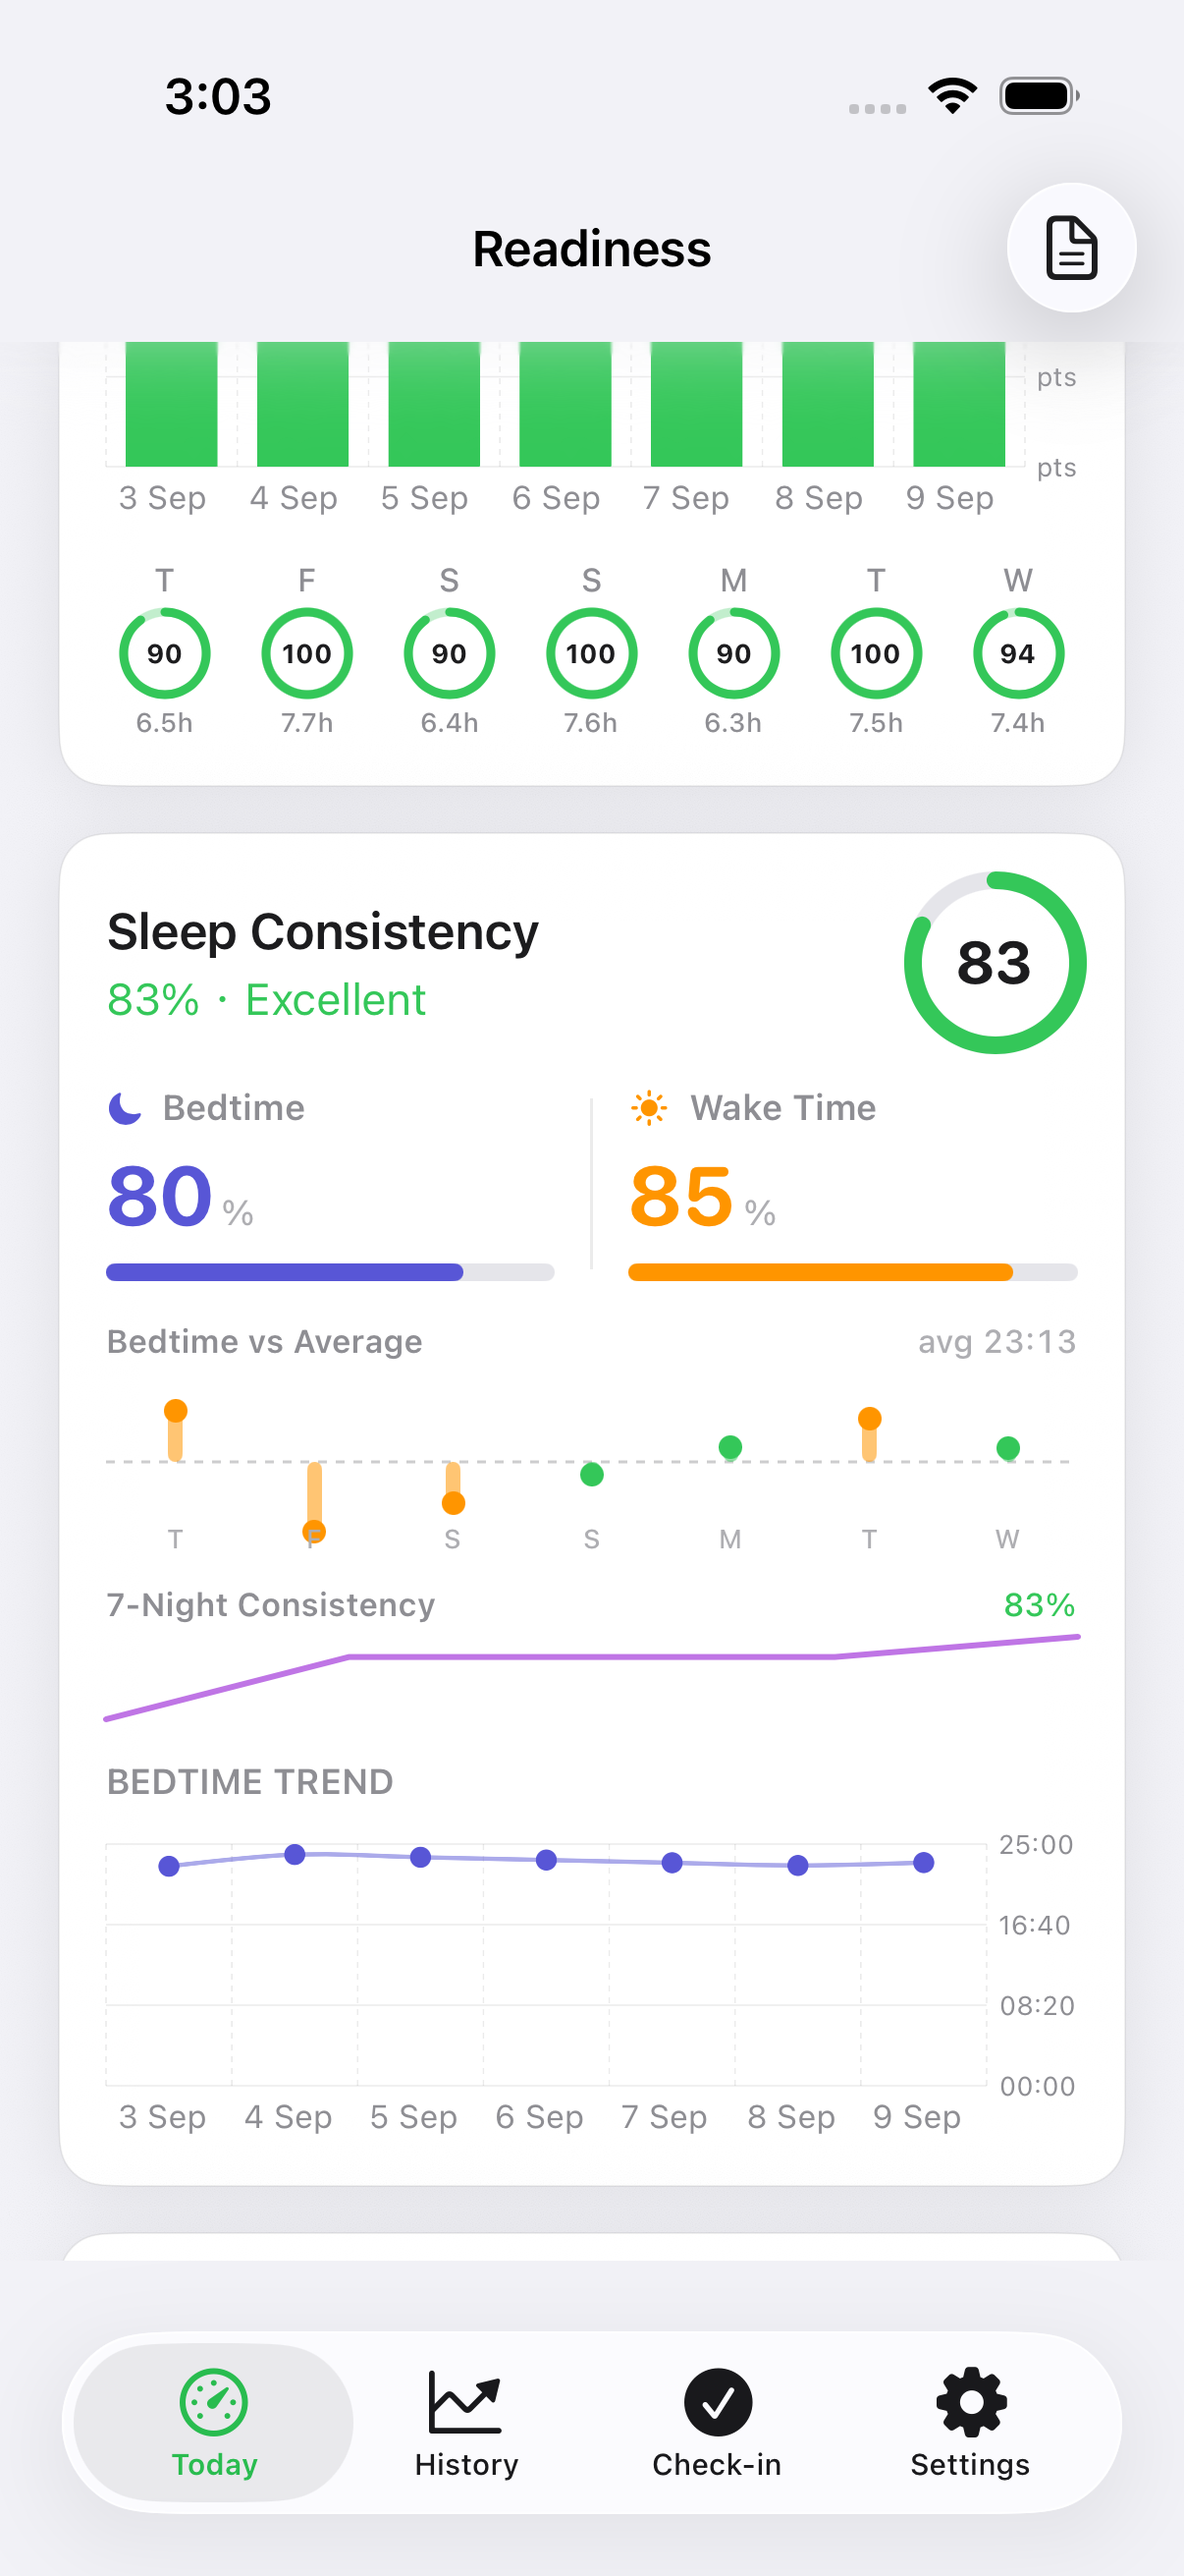
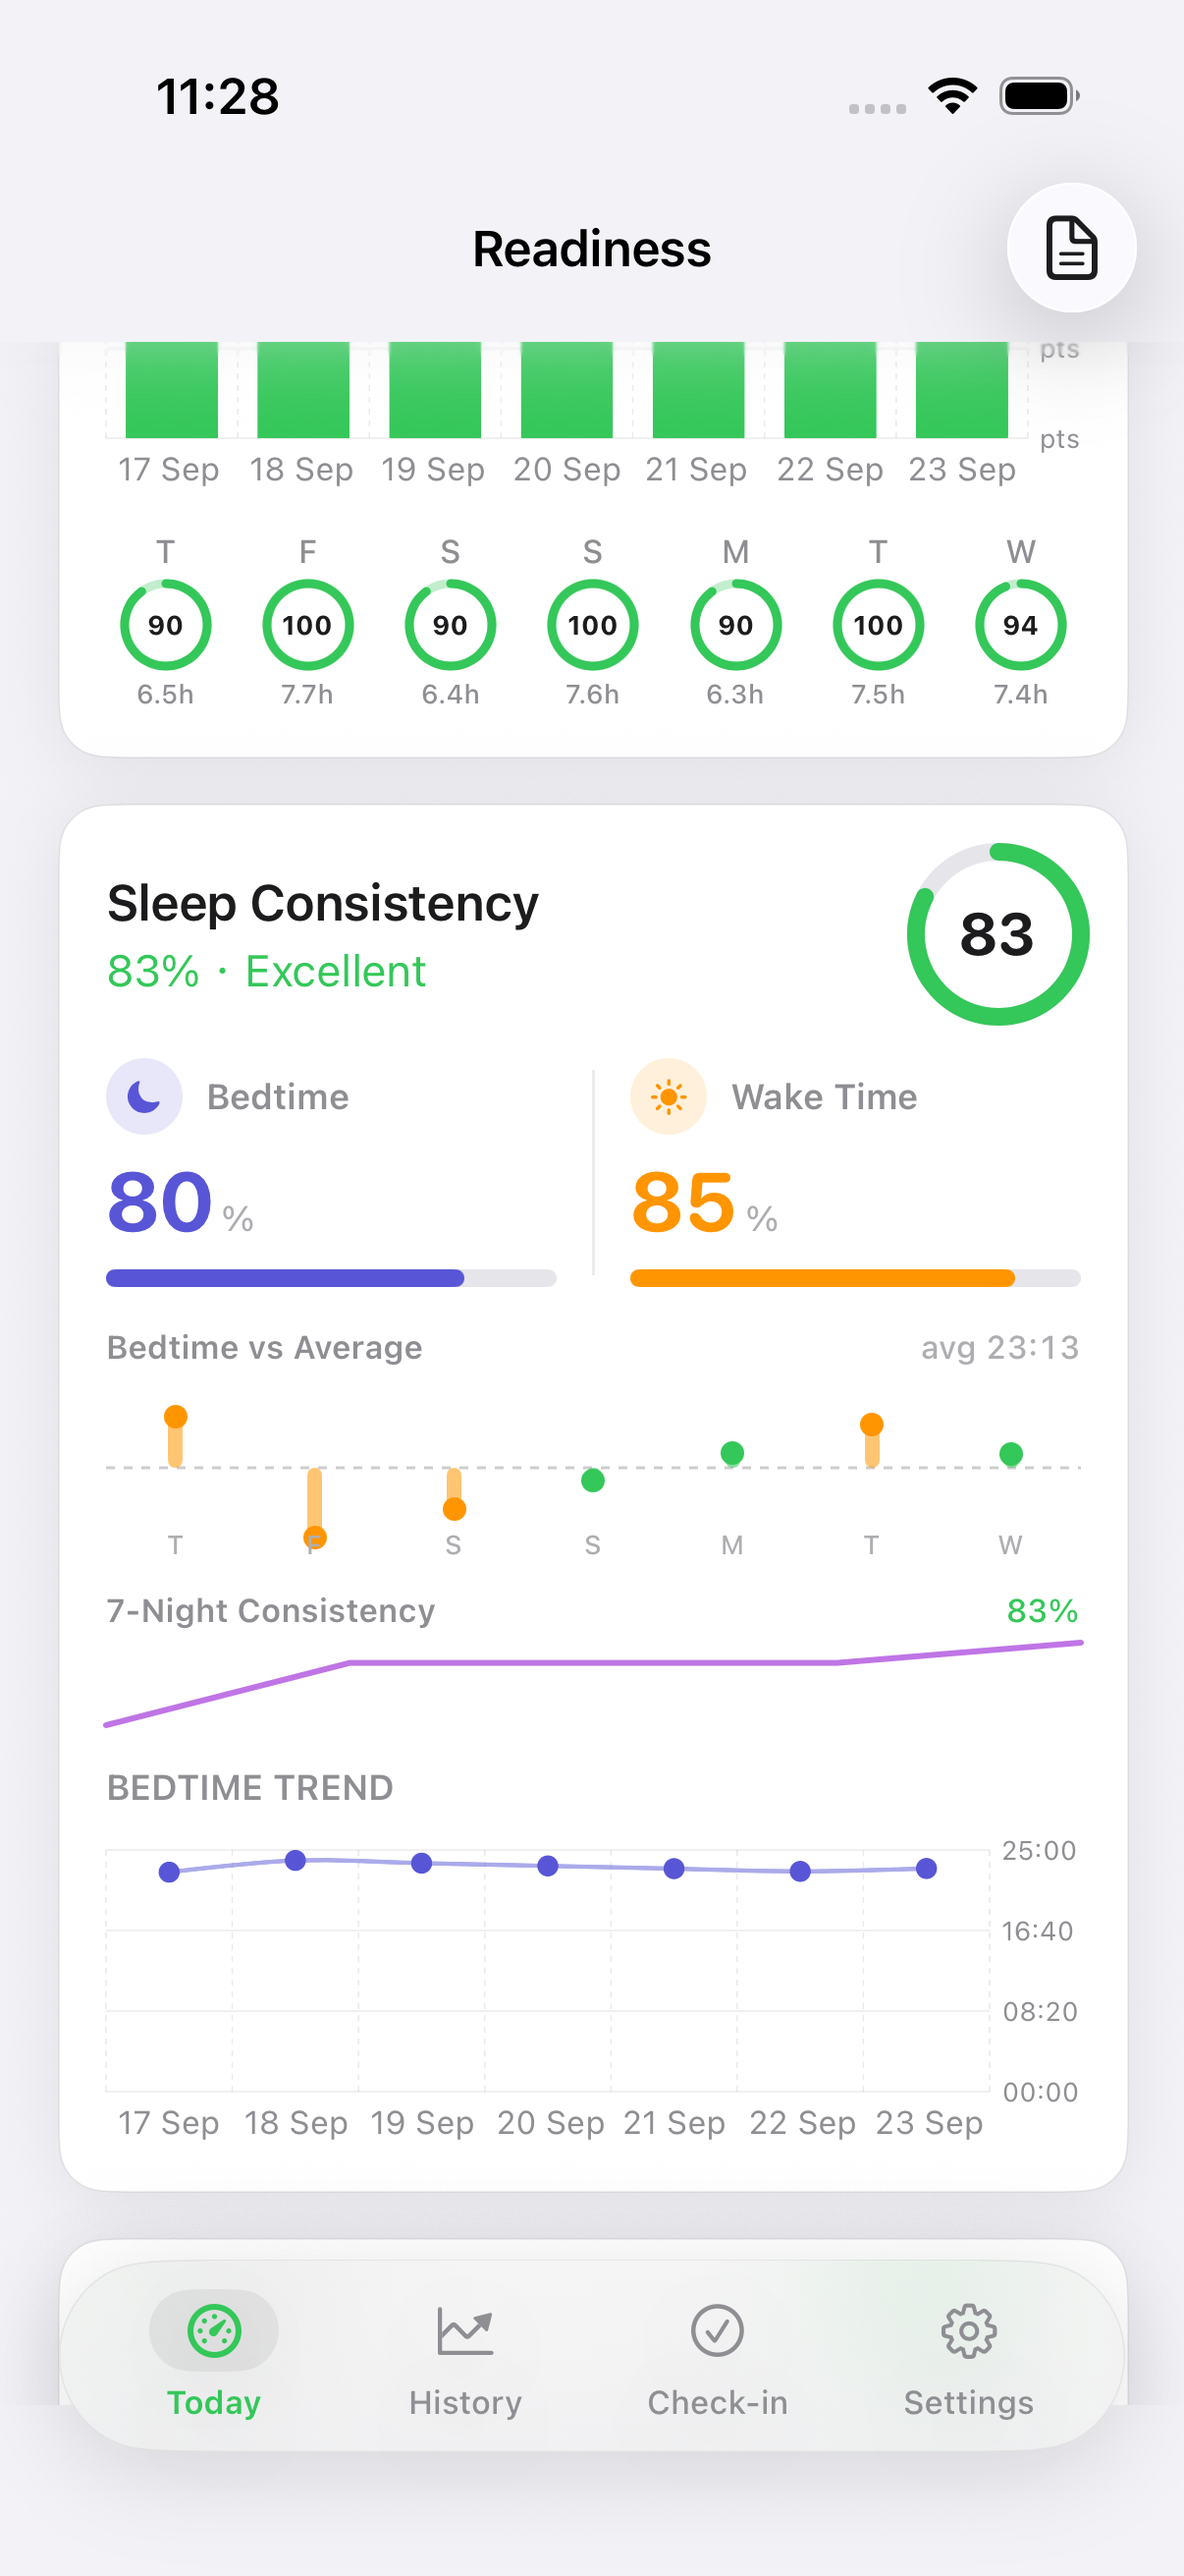
feat(today): Apple Sleep Consistency Bedtime|Wake wells (Honest #71) (#89)
Circular tint SF Symbol wells on dual-column labels; refresh sleep-quality audit PNG.

diff --git a/ReadinessTracker/Views/WhoopFeatures/SleepConsistencyTracker.swift b/ReadinessTracker/Views/WhoopFeatures/SleepConsistencyTracker.swift
@@ -341,10 +341,14 @@ struct SleepConsistencyTracker: View {
         color: Color
     ) -> some View {
         VStack(alignment: .leading, spacing: 6) {
-            HStack(spacing: 6) {
+            HStack(spacing: 8) {
                 Image(systemName: icon)
                     .font(.system(size: 11, weight: .semibold))
                     .foregroundStyle(color)
+                    .frame(width: 26, height: 26)
+                    .background(color.opacity(0.14))
+                    .clipShape(Circle())
+                    .accessibilityHidden(true)
                 Text(label)
                     .font(.caption.weight(.semibold))
                     .foregroundStyle(RTColor.secondaryText)

diff --git a/ReadinessTrackerUITests/SurfacesUITests.swift b/ReadinessTrackerUITests/SurfacesUITests.swift
@@ -113,6 +113,7 @@ final class SurfacesUITests: XCTestCase {
     }
 
     func testSleepQualitySurfaceVisibleAfterScroll() throws {
+        // Honest #71: Bedtime|Wake dual columns use circular tint wells.
         // Today WHOOP stack: elevated Sleep Quality + Consistency (score rings, spark, bedtime dots/bars).
         revealText("Sleep Consistency")
         XCTAssertTrue(app.staticTexts["Sleep Quality Trend"].exists)

diff --git a/.cursor/skills/verify-readiness-tracker/features/sleep-consistency-wells.md b/.cursor/skills/verify-readiness-tracker/features/sleep-consistency-wells.md
@@ -1,0 +1,18 @@
+# Today Sleep Consistency wells
+
+## Sub-features
+- Bedtime|Wake dual columns on Sleep Consistency card
+- Each column title uses a circular tint SF Symbol well (moon / sunrise style)
+
+## How to get to it (user POV)
+1. Open Today
+2. Scroll the WHOOP stack to **Sleep Consistency**
+3. See Bedtime and Wake dual columns with circular icon wells
+
+## Driving it with the harness
+- UITest: `SurfacesUITests.testSleepQualitySurfaceVisibleAfterScroll`
+- Captures `.audit/verify-sleep-quality.png` (Consistency sits with Sleep Quality Trend)
+
+## Gotchas
+- Do not invent Fitness+ chrome; keep Gym/Work/Sleep + rings + GOOD TO GO
+- Wells match other Honest Apple chrome (26pt circle, tint opacity ~0.14)
